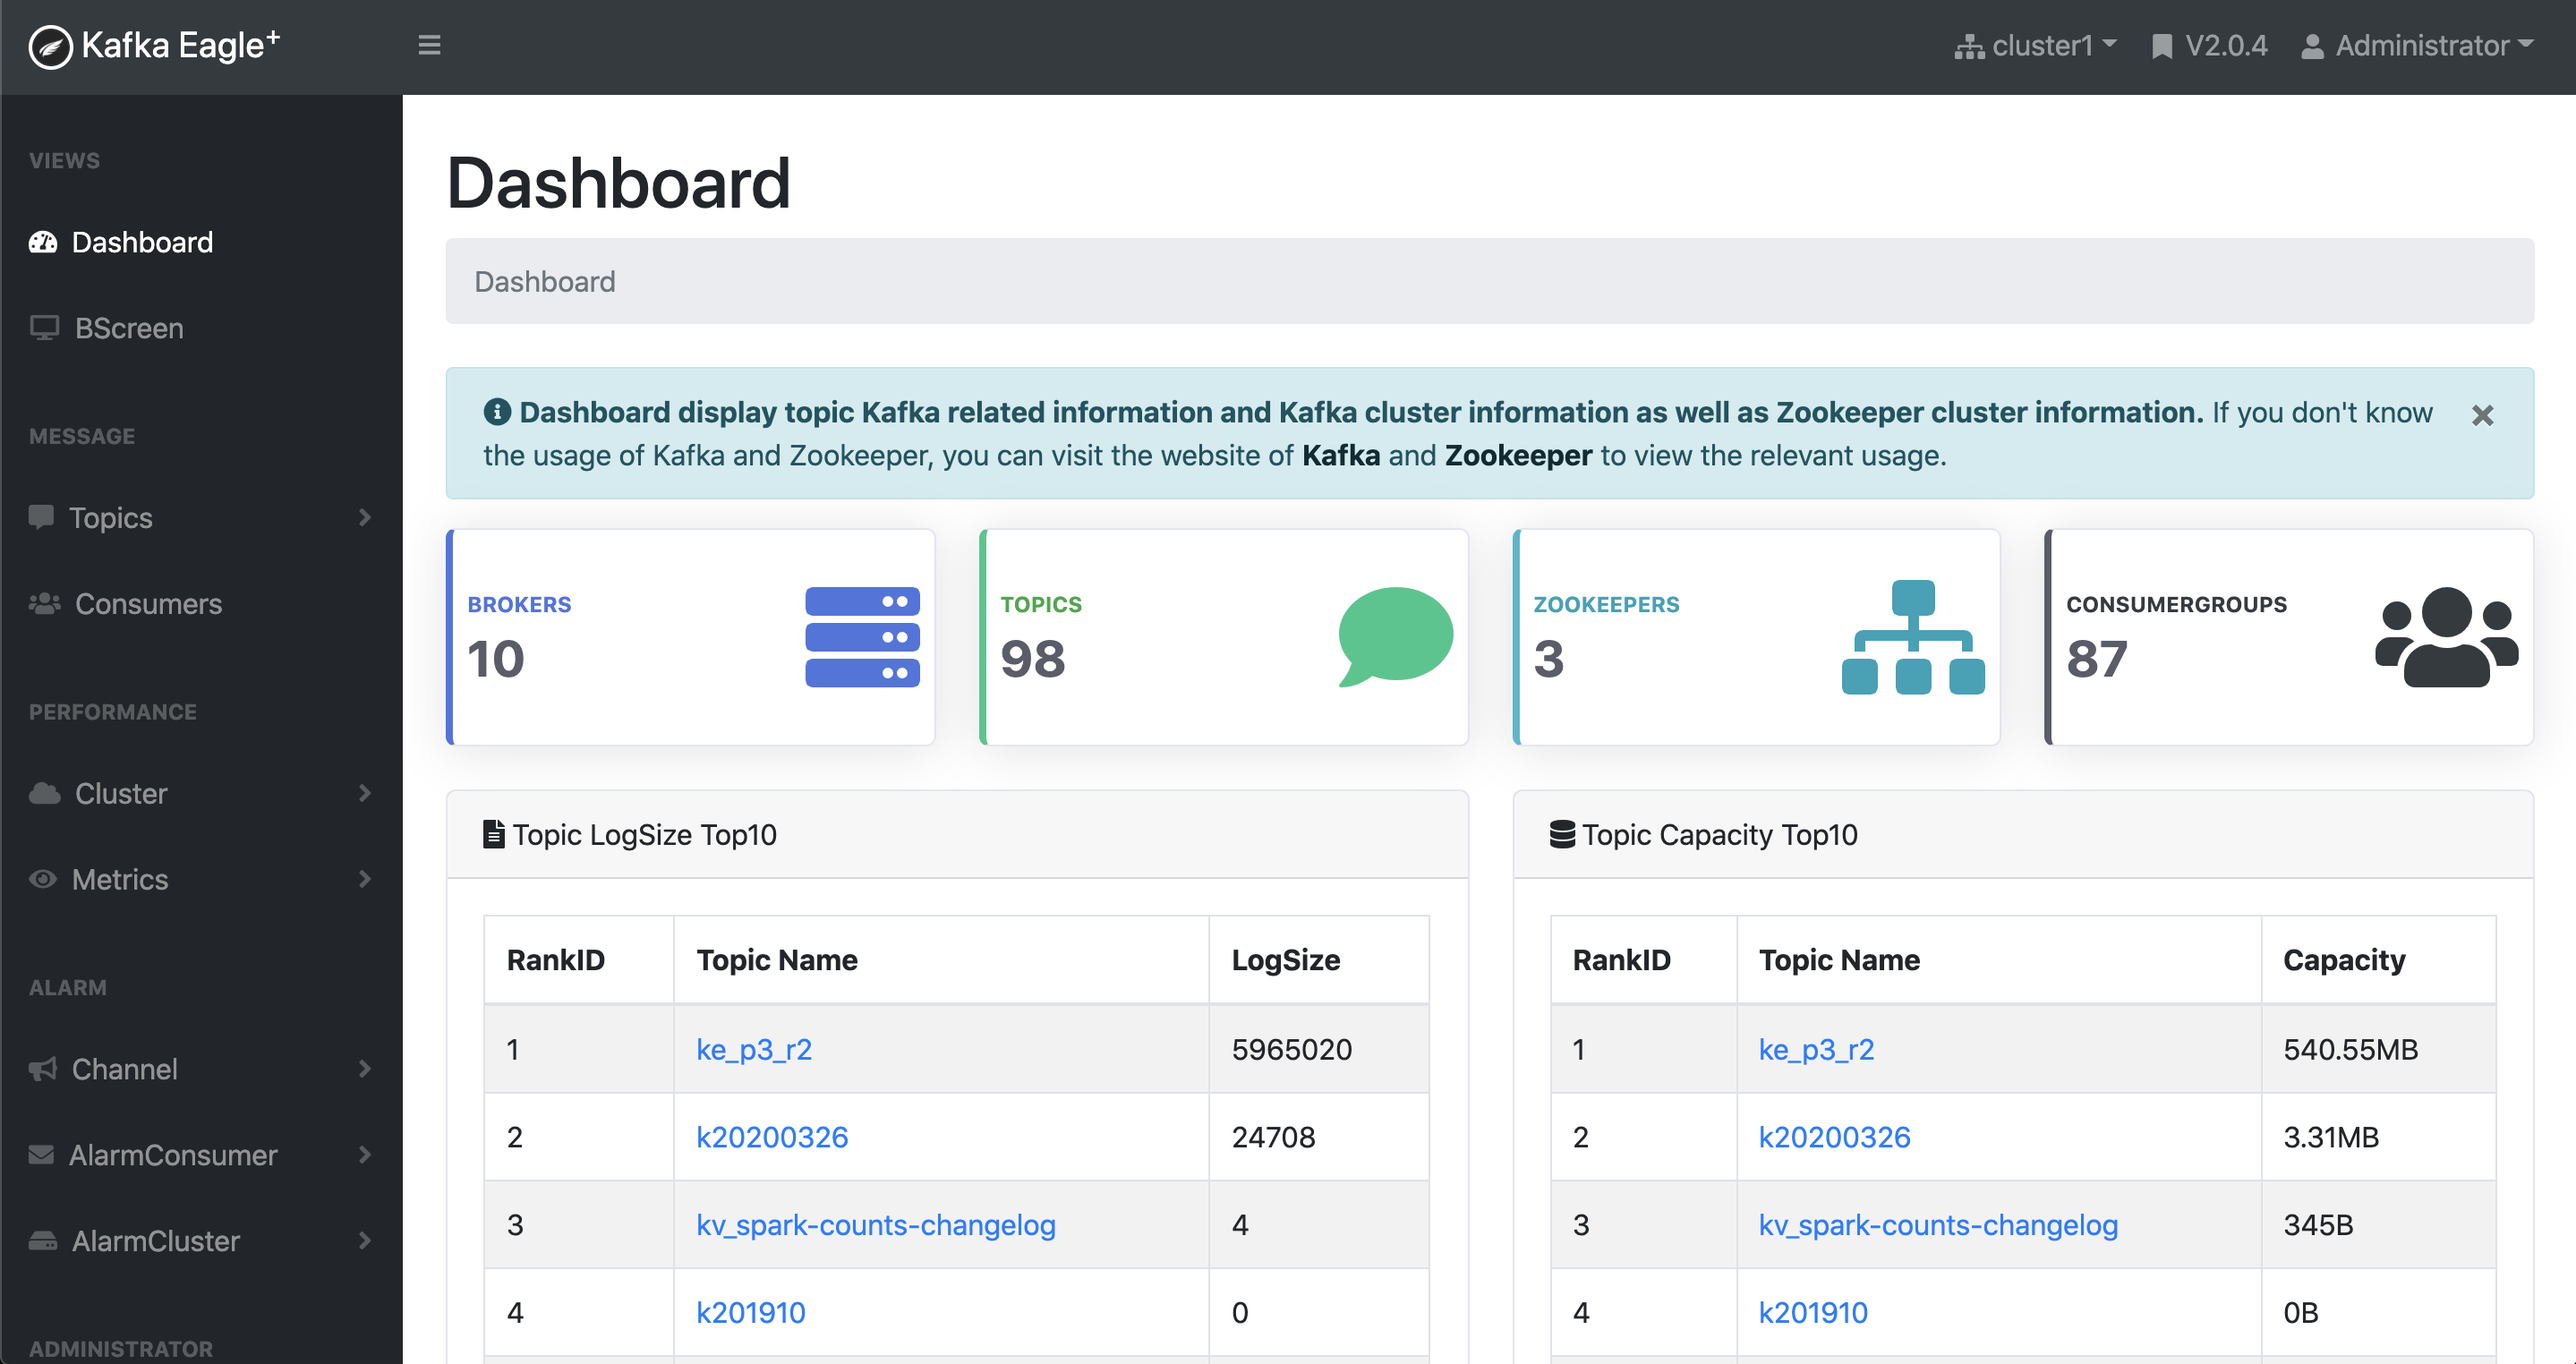
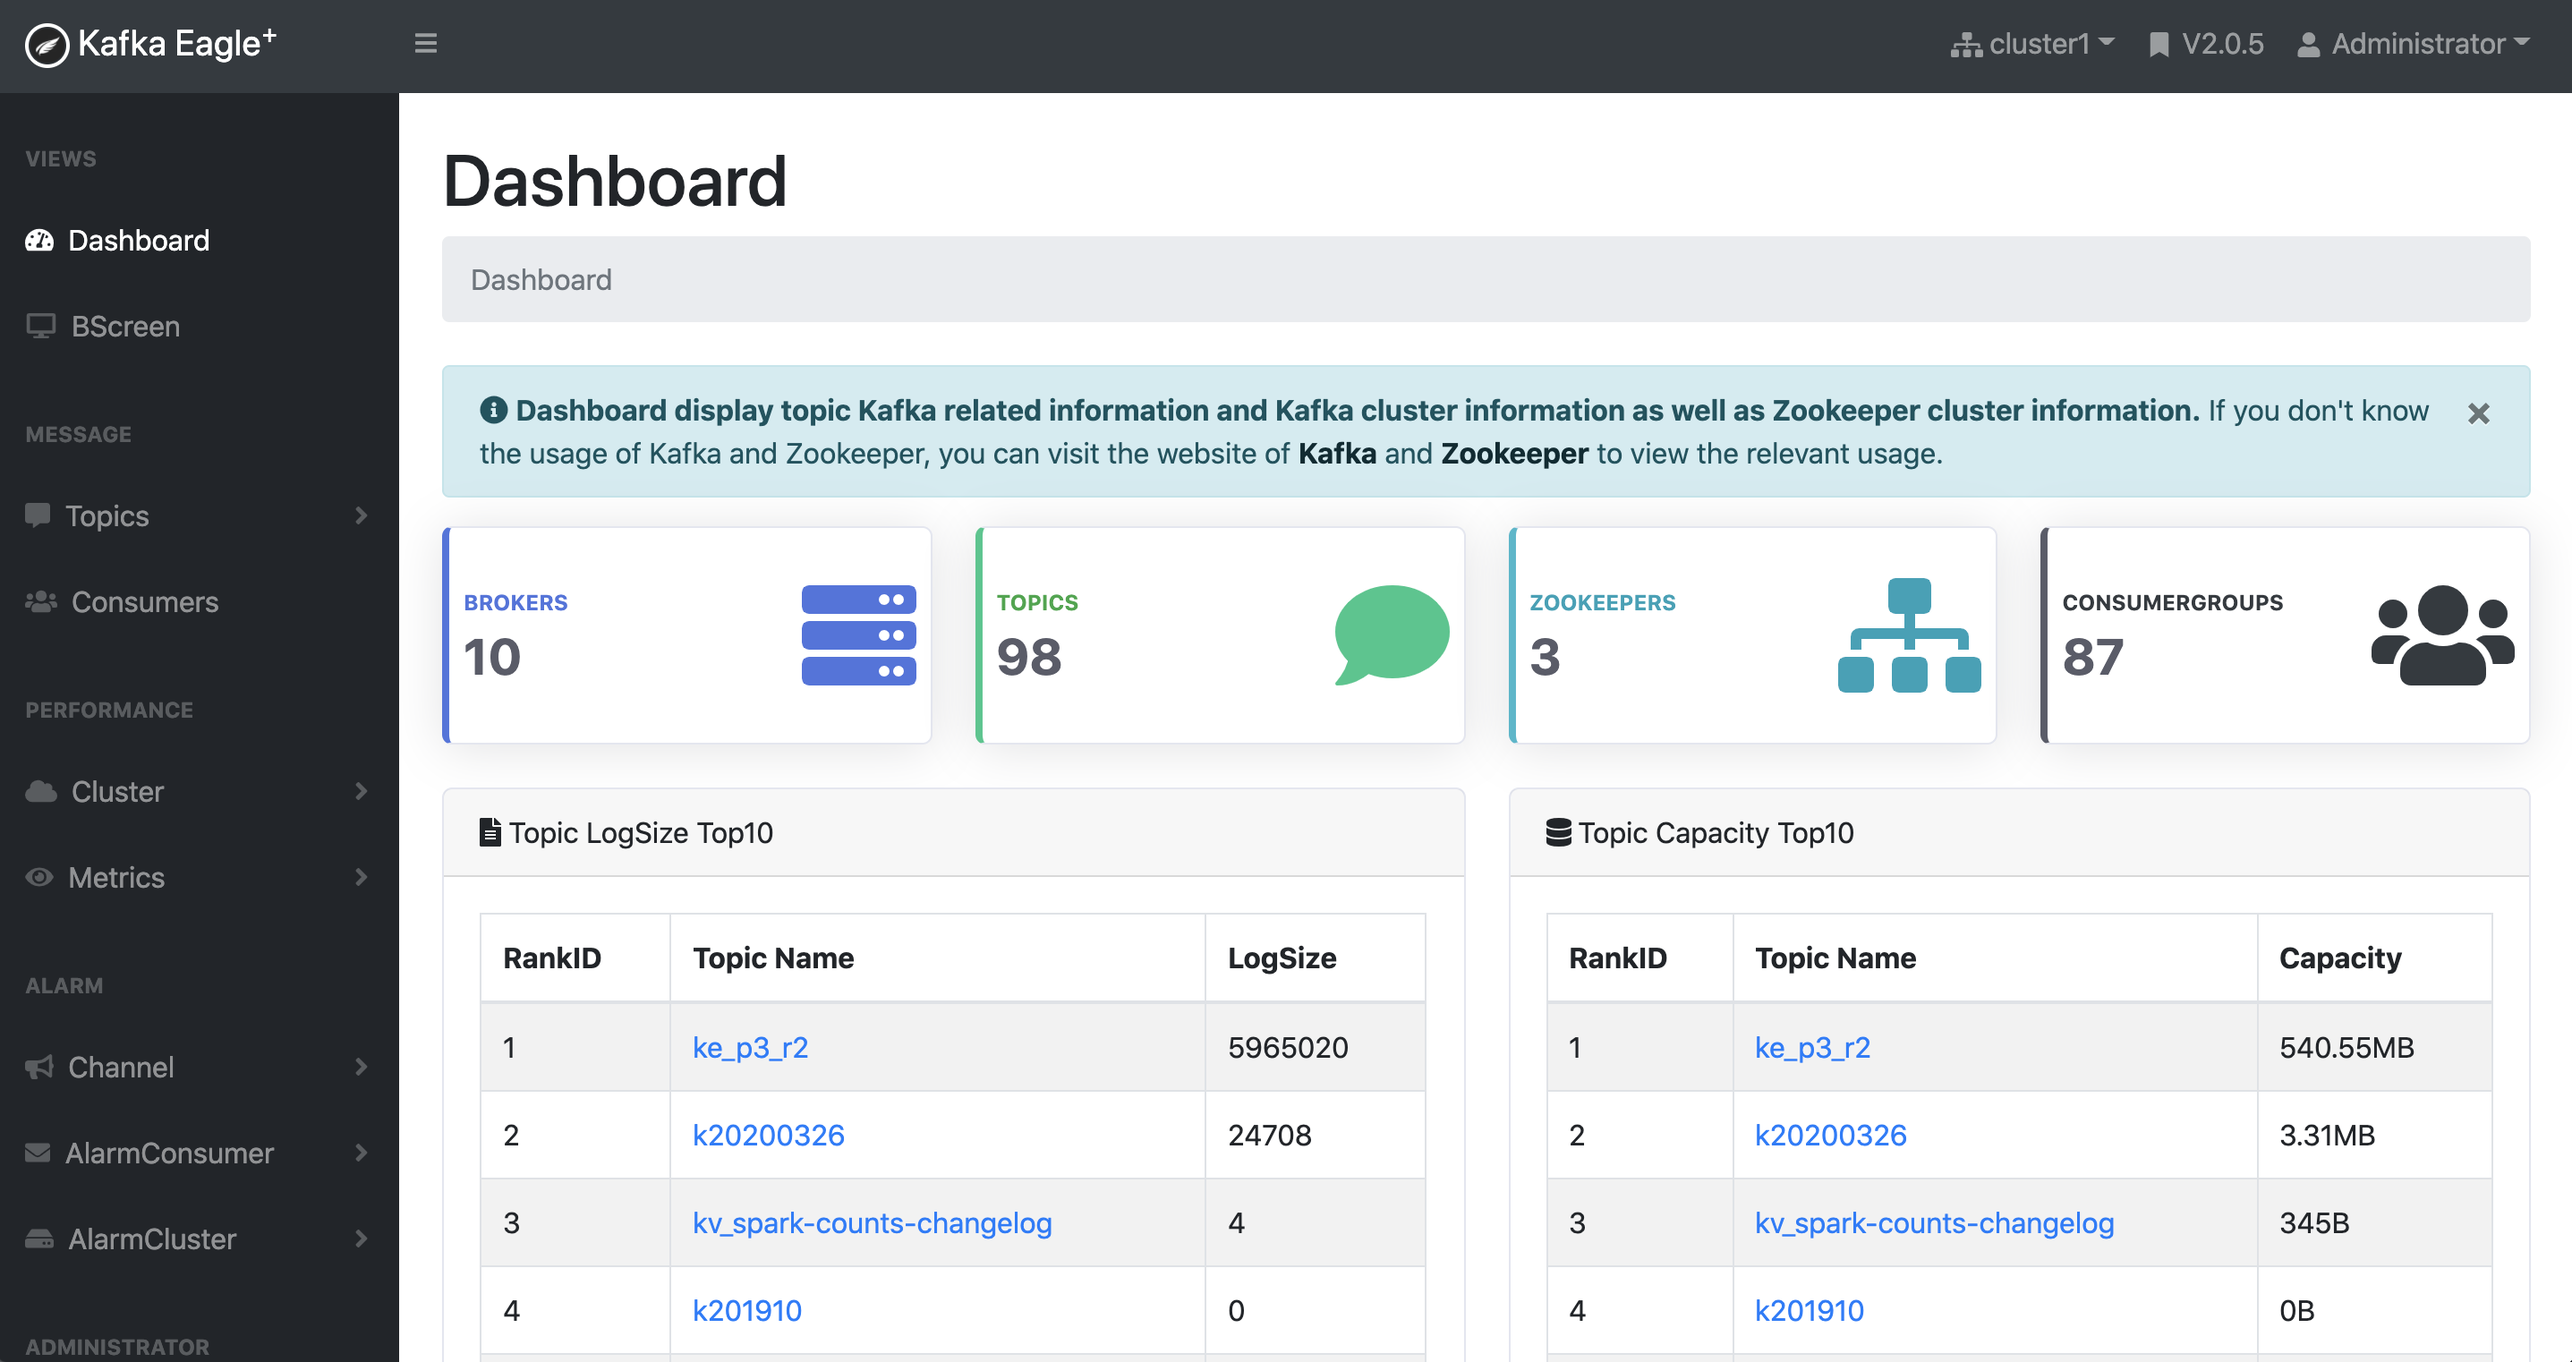
release v2.0.5

diff --git a/index.html b/index.html
@@ -37,7 +37,7 @@
           <div class="wrap">
             <div class="text"><strong>Kafka-<span class="white-text">Eagle</span></strong></div>
             <div class="minitext">A Easy and High-Performance Monitoring System</div>
-            <div class="buttons-unit"><a href="articles/docs/documentation.html" target="_blank" class="button">Installation guidelines</a><a href="http://download.kafka-eagle.org/" target="_blank" class="button">Download (v2.0.4)</a></div>
+            <div class="buttons-unit"><a href="articles/docs/documentation.html" target="_blank" class="button">Installation guidelines</a><a href="http://download.kafka-eagle.org/" target="_blank" class="button">Download (v2.0.5)</a></div>
             <div class="admin-screenshots">
               <div class="admin-screenshot">
                 <div class="browser-mockup"><a href="#" target="_blank" class="demo-link"><img src="images/docs/Dashboard@2x.png"><span class="demo-link-label">Kafka Eagle</span></a></div>

diff --git a/articles/docs/changelog/changelog.html b/articles/docs/changelog/changelog.html
@@ -97,6 +97,13 @@
         <h1>ChangeLog</h1>
         <div class="subHeader"><i class="fa fa-home"></i> > <a href="" style="text-decoration:none;">ChangeLog</a> >
           ChangeLog</div>
+          <h3>[Release V2.0.5] 2021-05-08</h3>
+          <p>[Release] Add：Release <a href="https://github.com/smartloli/kafka-eagle-bin/archive/v2.0.5.tar.gz"
+              style="text-decoration:none;" target="_blank">Kafka Eagle V2.0.5</a> version,The following changes:</p>
+          <ol>
+            <li>Fixed Zookeeper Supportted JDK14+.</li>
+            <li>Optimize Multi-Thread Scheduling Tasks.</li>
+          </ol>
           <h3>[Release V2.0.4] 2021-02-18</h3>
           <p>[Release] Add：Release <a href="https://github.com/smartloli/kafka-eagle-bin/archive/v2.0.4.tar.gz"
               style="text-decoration:none;" target="_blank">Kafka Eagle V2.0.4</a> version,The following changes:</p>
